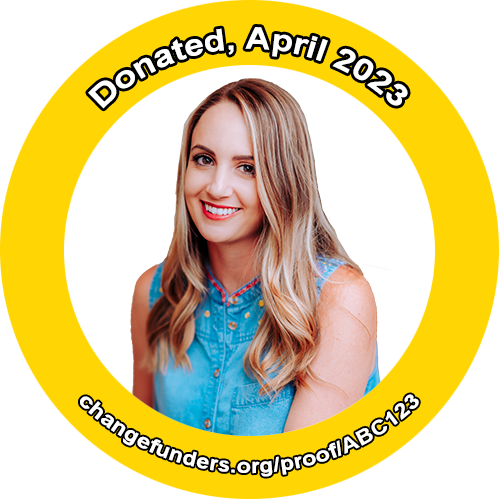
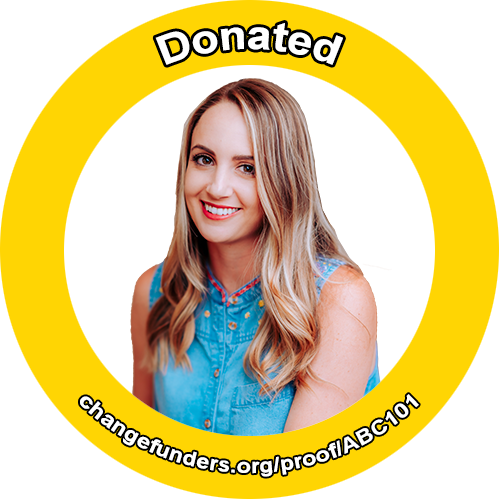
proof page and individual proof logic pipeline working

Changed region(s): [[0.1503, 0.0301, 0.8417, 0.2405], [0.7816, 0.7816, 0.8417, 0.8417]]

diff --git a/website/templates/not_signed_in/landing/index.html b/website/templates/not_signed_in/landing/index.html
@@ -14,7 +14,7 @@
     <img src="/static/images/landing/clouds_group.png" alt="background cloud" class="custom-img-size-1 custom-img-index-1 custom-img-opacity-1">
     <img src="/static/images/landing/clouds_group.png" alt="background cloud" class="custom-img-size-1 custom-img-index-1 custom-img-opacity-1">
   </div>
-  <img src="/static/images/cards/changefunders_card1.png" class="img-fluid img-thumbnail rounded-circle mx-auto d-block shadow-lg custom-max-width-2 custom-img-index-2 custom-img-position-2" alt="donator proof">
+  <a href="/proof/ABC101"><img src="/static/images/cards/changefunders_card1.png" class="img-fluid img-thumbnail rounded-circle mx-auto d-block shadow-lg custom-max-width-2 custom-img-index-2 custom-img-position-2" alt="donator proof"></a>
   <div class="container custom-mt-1 text-center mx-auto custom-stroke-1">
     <h1 class="custom-header-2 custom-index-2 custom-position-relative">Fund the <span class="text-decoration-underline">change</span> you want to see in the world first &#127758;, then complain.</h1>
   </div>
@@ -61,7 +61,7 @@
       <p>- then they complain about how bad society is.</p>
     </div>
     <div class="container text-center">
-      <img src="/static/images/landing/tweet2.png" alt="complaining without contribution" class="custom-img-size-2 custom-border-radius-1 shadow-lg">
+      <a href="/proof/ABC123"><img src="/static/images/landing/tweet2.png" alt="complaining without contribution" class="custom-img-size-2 custom-border-radius-1 shadow-lg"></a>
     </div>
   </div>
   <div class="custom-shape-divider-bottom-1670932652">
@@ -73,7 +73,7 @@
 
 <div class="container text-center">
   <h2 class="custom-header-1 custom-pt-1">How it works</h2>
-  <div class="container text-center custom-pt-2 custom-subheader-1">
+  <div class="container text-center custom-pt-2 custom-subheader-1 custom-max-width-1">
     <p>Step 1: Create account</p>
   </div>
   <div class="container">
@@ -87,7 +87,7 @@
       </div>
     </form>
   </div>
-  <div class="container text-center custom-py-3 custom-subheader-1 custom-max-width-1">
+  <div class="container text-center custom-pt-2 custom-subheader-1 custom-max-width-1">
     <p>Step 2: Choose an organization you support. We contribute to 100+ different charities and nonprofit organizations.</p>
   </div>
   <div class="container">
@@ -102,23 +102,28 @@
     <img src="/static/images/organization_logos/unicef.png" alt="unicef logo" class="custom-org-logo-wide-1 custom-m-1 custom-border-radius-1">
     <img src="/static/images/organization_logos/wounded.png" alt="wounded warriors project logo" class="custom-org-logo-wide-1 custom-m-1 custom-border-radius-1">
   </div>
-  <div class="container text-center custom-py-2 custom-subheader-1 custom-max-width-1">
+  <div class="container text-center custom-pt-2 custom-subheader-1 custom-max-width-1">
     <p>Step 3: Actually subscribe to <span class="text-decoration-underline">change</span>.</p>
     <p class="custom-subheader-2 custom-font-grey-1">Cancel anytime. At <span class="text-decoration-underline">change</span>funders we believe that regular + reliable monthly funds are the only way these organizations can plan for and execute lasting positive <span class="text-decoration-underline">change</span> in society.</p>
   </div>
   <div class="container">
-    <input type="radio" class="btn-check" name="options-outlined" id="option1" autocomplete="off" checked>
-    <label class="btn btn-primary" for="option1">$5<span class="custom-subheader-3"> /month</span></label>
+    <input type="radio" class="btn-check " name="options-outlined" id="option1" autocomplete="off" checked>
+    <label class="btn btn-primary custom-m-2" for="option1">$5<span class="custom-subheader-3"> /month</span></label>
+    
     <input type="radio" class="btn-check" name="options-outlined" id="option2" autocomplete="off">
-    <label class="btn btn-primary" for="option2">$10<span class="custom-subheader-3"> /month</span></label>
+    <label class="btn btn-primary custom-m-2" for="option2">$10<span class="custom-subheader-3"> /month</span></label>
+    
     <input type="radio" class="btn-check" name="options-outlined" id="option3" autocomplete="off">
-    <label class="btn btn-primary" for="option3">$25<span class="custom-subheader-3"> /month</span></label>
+    <label class="btn btn-primary custom-m-2" for="option3">$25<span class="custom-subheader-3"> /month</span></label>
+    
     <input type="radio" class="btn-check" name="options-outlined" id="option4" autocomplete="off">
-    <label class="btn btn-primary" for="option4">$50<span class="custom-subheader-3"> /month</span></label>
+    <label class="btn btn-primary custom-m-2" for="option4">$50<span class="custom-subheader-3"> /month</span></label>
+    
     <input type="radio" class="btn-check" name="options-outlined" id="option5" autocomplete="off">
-    <label class="btn btn-primary" for="option5">$100<span class="custom-subheader-3"> /month</span></label>
+    <label class="btn btn-primary custom-m-2" for="option5">$100<span class="custom-subheader-3"> /month</span></label>
+    
     <input type="radio" class="btn-check" name="options-outlined" id="option6" autocomplete="off">
-    <label class="btn btn-primary" for="option6">$500<span class="custom-subheader-3"> /month</span></label>
+    <label class="btn btn-primary custom-m-2" for="option6">$500<span class="custom-subheader-3"> /month</span></label>
   </div>
   <img src="/static/images/stripe/stripe.png" alt="powered by stripe" class="custom-stripe-img-1 custom-mt-2">
 </div>
@@ -131,6 +136,10 @@
 <div class="container-fluid custom-bg-yellow-1">
   <div class="container text-center">
     <h2 class="custom-header-1 custom-pt-1">Benefits</h2>
+  </div>
+  <div class="container text-center custom-pt-2 custom-subheader-1 custom-max-width-1">
+    <p>1. Proof of donation badge.</p>
+    <a href="/proof/ABC107"><img src="/static/images/cards/changefunders_card3.png" class="img-thumbnail rounded-circle mx-auto d-block shadow-lg" alt="donator proof"></a>
   </div>
 </div>
 {% endblock %}

diff --git a/website/templates/not_signed_in/proof/individual/index.html b/website/templates/not_signed_in/proof/individual/index.html
@@ -1,0 +1,24 @@
+{% extends "aaa_base/base2_child1_not_signed_in_yes_navbar_and_footer.html" %}
+
+<!-- ------------------------------------- title start ------------------------------------- -->
+{% block title %}
+  <title>Sign Up - ChangeFunders</title>
+  <meta name="description" content="work in progress...">
+  <meta name="og:description" content="work in progress...">
+{% endblock %}
+<!-- ------------------------------------- title end ------------------------------------- -->
+<!-- ------------------------------------- content start ------------------------------------- -->
+{% block contentBodyExceptNavbarAndFooter %}
+<div class="container-fluid pt-5 custom-bg-yellow-1">
+  <div class="container">
+    <p>Hello, proof individual page</p>
+    <!-- ------------------------------------- temporary logic start ------------------------------------- -->
+    <div class="container text-center custom-pt-2 custom-subheader-1 custom-max-width-1">
+      <p>1. Proof of donation badge.</p>
+      <img src="{{ img_url_to_html }}" class="img-thumbnail rounded-circle mx-auto d-block shadow-lg" alt="donator proof">
+    </div>
+    <!-- ------------------------------------- temporary logic end ------------------------------------- -->
+  </div>
+</div>
+{% endblock %}
+<!-- ------------------------------------- content end ------------------------------------- -->

diff --git a/website/templates/not_signed_in/proof/index.html b/website/templates/not_signed_in/proof/index.html
@@ -1,0 +1,19 @@
+{% extends "aaa_base/base2_child1_not_signed_in_yes_navbar_and_footer.html" %}
+
+<!-- ------------------------------------- title start ------------------------------------- -->
+{% block title %}
+  <title>Sign Up - ChangeFunders</title>
+  <meta name="description" content="work in progress...">
+  <meta name="og:description" content="work in progress...">
+{% endblock %}
+<!-- ------------------------------------- title end ------------------------------------- -->
+<!-- ------------------------------------- content start ------------------------------------- -->
+{% block contentBodyExceptNavbarAndFooter %}
+<div class="container-fluid pt-5 custom-bg-yellow-1">
+  <div class="container">
+    <p>{{ error_message_to_html }}</p>
+    <p>Hello, proof page</p>
+  </div>
+</div>
+{% endblock %}
+<!-- ------------------------------------- content end ------------------------------------- -->

diff --git a/website/templates/aaa_base/base2_child1_not_signed_in_yes_navbar_and_footer.html b/website/templates/aaa_base/base2_child1_not_signed_in_yes_navbar_and_footer.html
@@ -17,7 +17,7 @@
     </button>
     <div class="collapse navbar-collapse" id="toggleMobileMenu">
       <ul class="navbar-nav ms-auto text-center">
-        <li><a href="#" class="nav-link mx-2">Proof</a></li>
+        <li><a href="/proof" class="nav-link mx-2">Proof</a></li>
         <li><a href="#" class="nav-link mx-2">Resources</a></li>
         <li><a href="/login" class="nav-link mx-2">Dashboard</a></li>
         <li><a class="nav-link btn btn-primary text-black fw-bold mx-2" href="/signup" role="button">Get started</a></li>

diff --git a/website/static/css/aaa_base/index.css b/website/static/css/aaa_base/index.css
@@ -188,6 +188,9 @@
 .custom-m-1 {
   margin: 25px;
 }
+.custom-m-2 {
+  margin: 5px;
+}
 .custom-mx-1 {
   margin: 0 200px;
 }
@@ -221,7 +224,7 @@
   padding: 100px 0 0 0;
 }
 .custom-pt-2 {
-  padding: 50px 0 0 0;
+  padding: 125px 0 0 0;
 }
 .custom-pt-3 {
   padding: 25px 0 0 0;

diff --git a/website/views.py b/website/views.py
@@ -28,8 +28,6 @@ views = Blueprint('views', __name__)
 @views.route('/')
 def landing_index_page_function():
   localhost_print_function(' ------------------------ landing_index_page_function start ------------------------')
-  # if request.method == 'POST':
-  #   ui_email = request.form.get('uiEmailVariousPages1')
   localhost_print_function(' ------------------------ landing_index_page_function end ------------------------')
   return render_template('not_signed_in/landing/index.html', user=current_user)
 # ------------------------ individual route end ------------------------
@@ -106,5 +104,48 @@ def candidates_reset_forgot_password_page_function(token):
       return redirect(url_for('views_si.dashboard_page_function'))
     # ------------------------ update db end ------------------------
   localhost_print_function(' ------------------------ candidates_reset_forgot_password_page_function end ------------------------')
-  return render_template('not_signed_in/password_reset/index.html', user=current_user, error_message_to_html = reset_password_error_statement)
+  return render_template('not_signed_in/password_reset/index.html', user=current_user, error_message_to_html=reset_password_error_statement)
+# ------------------------ individual route end ------------------------
+
+# ------------------------ individual route start ------------------------
+@views.route('/proof')
+def proof_page_function():
+  localhost_print_function(' ------------------------ proof_page_function start ------------------------')
+  proof_error_statement=''
+  # ------------------------ redirect messages start ------------------------
+  var1 = request.args.get('var1')
+  if var1 == 'Username does not exist.':
+    proof_error_statement = var1
+  # ------------------------ redirect messages end ------------------------
+  localhost_print_function(' ------------------------ proof_page_function end ------------------------')
+  return render_template('not_signed_in/proof/index.html', user=current_user, error_message_to_html=proof_error_statement)
+# ------------------------ individual route end ------------------------
+
+# ------------------------ individual route start ------------------------
+@views.route('/proof/<search_username>', methods=['GET', 'POST'])
+def i_proof_page_function(search_username):
+  localhost_print_function(' ------------------------ i_proof_page_function start ------------------------')
+  proof_error_statement = ''
+  # ------------------------ check if user exists start ------------------------
+  search_username = search_username.upper()
+  user_exists = UserObj.query.filter_by(username=search_username).first()
+  if user_exists:
+    username = user_exists.username
+    # ------------------------ temporary logic start ------------------------
+    if username == 'ABC101':
+      img_url = '/static/images/cards/changefunders_card1.png'
+    elif username == 'ABC123':
+      img_url = '/static/images/cards/changefunders_card2.png'
+    elif username == 'ABC107':
+      img_url = '/static/images/cards/changefunders_card3.png'
+    else:
+      img_url=''
+    pass
+    # ------------------------ temporary logic end ------------------------
+  else:
+    proof_error_statement = 'Username does not exist.'
+    return redirect(url_for('views.proof_page_function', var1=proof_error_statement))
+  # ------------------------ check if user exists end ------------------------
+  localhost_print_function(' ------------------------ i_proof_page_function end ------------------------')
+  return render_template('not_signed_in/proof/individual/index.html', user=current_user, img_url_to_html=img_url)
 # ------------------------ individual route end ------------------------
